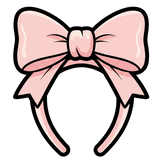
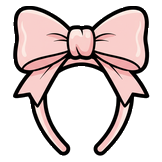
🔧 꾸미기 실시간 반영 버그 수정 + 배경 제거 전폴더 적용
CosmeticPicker subscribe 버그:
- Firebase onValue 가 재발화할 때마다 setDraft(remote) 가 사용자 선택을 되돌리던
  문제 → useRef 플래그로 모달 열릴 때 최초 1회만 draft 시딩, 이후엔 current 만
  미러. 두 번째 저장부터 바뀌지 않던 증상 해결.

scripts/clean-bg.mjs (신규):
- 범용 배경 제거 스크립트. 모든 PNG 폴더(stickers/mascot/landmarks/icons) 대상
- Edge-seed flood fill + kind gating(light/dark 분리) + 16샘플 엣지워킹 + 6패스
  수렴. 본체 검은 외곽선은 건드리지 않고 배경만 제거
- 체커 패턴/얇은 링/트리밍 후 내부잔재 모두 커버
- patterns/ 는 타일 배경이라 제외

26개 파일 재처리 (주요 예: bee-teacher 94444px, stage-5-queen 11426px,
korea 14136px, sticker-cooperative 4002px 등 바닥배경 투명화)

CLAUDE.md 항목 추가:
- Firebase onValue 재발화 → seed-once draft 패턴
- 낙관적 저장 + 토스트 흐름
- 배경 제거 flood-fill 설계 (predicate-only 금지)
- Next.js 외부 이미지 사용법 (flagcdn)

Changed region(s): [[0.0617, 0.0309, 0.9259, 0.9568], [0.0617, 0.1543, 0.1235, 0.2778]]

diff --git a/components/CosmeticPicker.tsx b/components/CosmeticPicker.tsx
@@ -1,6 +1,6 @@
 "use client";
 
-import { useEffect, useMemo, useState } from "react";
+import { useEffect, useMemo, useRef, useState } from "react";
 import { t } from "@/lib/i18n";
 import { subscribeCosmetics, setCosmetics } from "@/lib/stickers";
 import {
@@ -63,12 +63,22 @@ export default function CosmeticPicker({
   const uPets = useMemo(() => new Set<NonNullable<PetId>>(unlockedPets(stage)), [stage]);
   const uTrophies = useMemo(() => new Set<NonNullable<TrophyId>>(unlockedTrophies(stage)), [stage]);
 
-  // Subscribe to cosmetics while open
+  // Subscribe to cosmetics while open.
+  // BUG FIX: Firebase onValue can fire multiple times (cache → server roundtrip
+  // OR our own optimistic write echoing back). If we setDraft() on every fire
+  // we clobber the user's in-flight selections, so subsequent picks revert.
+  // → only seed `draft` from the FIRST fire per modal opening; after that,
+  // only mirror into `current` so the local "last saved" baseline stays fresh.
+  const seededRef = useRef(false);
   useEffect(() => {
     if (!open || !myClientId) return;
+    seededRef.current = false;
     const unsub = subscribeCosmetics(roomCode, myClientId, (c) => {
       setCurrent(c);
-      setDraft(c);
+      if (!seededRef.current) {
+        setDraft(c);
+        seededRef.current = true;
+      }
     });
     return () => { unsub(); };
   }, [open, roomCode, myClientId]);

diff --git a/CLAUDE.md b/CLAUDE.md
@@ -75,3 +75,42 @@
 - `npm run build` 는 타입 체크 + 13개 페이지 prerender 까지 포함. PraiseHive /
   BeeMascot / SetupScreen 수정 후엔 반드시 통과시키고 푸시.
 - 에셋(PNG) 만 변경했어도 type import 가 깨졌을 수 있으니 빌드 생략하지 말 것.
+
+## Firebase 실시간 구독 (subscribe 패턴)
+
+- **Firebase `onValue` 는 한 번에 두 번 이상 발화할 수 있다.** 캐시값 → 서버값
+  왕복, 또는 자기 자신의 낙관적 쓰기가 에코로 되돌아오는 경우가 대표적. 콜백
+  안에서 `setDraft(remote)` 같은 코드를 그대로 쓰면 사용자가 고른 값이 subs
+  재발화 때 원래값으로 덮어써진다.
+- **구독은 "첫 fire 에만 draft 시딩" 패턴을 고수.** 모달/화면이 열릴 때마다
+  `useRef(false)` 플래그를 리셋해 1회 시딩, 이후엔 `current`(읽기 전용 상태)만
+  갱신하고 사용자 편집 상태는 건드리지 말 것. CosmeticPicker 가 이 패턴.
+- **쓰기는 낙관적으로.** 저장 버튼 → `onClose()` 즉시 + `onSaved()` 토스트
+  먼저 → `setCosmetics(...).catch(err => onSaveError(err))` 백그라운드. `await`
+  로 모달을 붙잡아두면 체감 지연이 커지고, Firebase 가 에코 재발화하며 UI 상태
+  가 튈 수 있다.
+- 토스트 컴포넌트는 `components/Toast.tsx` 재사용. tone `success` / `error`.
+
+## 배경 제거 파이프라인 (scripts/clean-bg.mjs)
+
+- **이전 실수:** `isNearBlack(r<40 && g<40 && b<40)` 같은 **predicate-only** 스트립
+  은 이미지 안쪽의 까만 외곽선까지 통째로 날린다 (예: 번데기 몸통 검은 줄무늬).
+- **현재 올바른 방식:** 가장자리에서 **flood-fill seed** 를 잡고, "같은 종류
+  (light / dark) 의 인접 픽셀만 지우기"로 경계를 존중한다. 뿌리부터 닿을 수
+  있는 배경만 지우기 때문에 **내부 본체 검은 선은 보존**된다.
+- **다중 패스.** 체커 패턴처럼 한 겹을 지우면 안쪽 링이 새 가장자리가 되는
+  경우가 있어서 `MAX_PASSES=6` 번까지 수렴할 때까지 반복.
+- **에지 샘플링은 많이.** 한 변에 16 샘플 위치 × 4 방향으로 가장 바깥 불투명
+  픽셀을 seed 로 등록. 본체가 특정 위치에서 edge 에 닿아도 다른 샘플로 우회.
+- **dark seed 는 현재 비활성.** 까만 배경을 flood 로 지우면 본체 외곽선까지
+  따라가는 사고가 잦아서, 특정 파일에 대해서만 별도 스크립트(`strip-bg.mjs`)
+  로 수동 처리.
+- `public/patterns/` 는 스크립트 대상에서 제외 — 타일링 배경이므로 내용 자체
+  가 "배경".
+
+## Next.js 외부 이미지
+
+- 표준 `<img src="...">` 는 도메인 제한 없이 사용 가능. `next/image` 는 도메인
+  허용 목록(`next.config.js → images.remotePatterns`) 필요.
+- `flagcdn.com`, `flagpedia.net` 등은 오픈 라이선스 국기 CDN. srcset `w320`/`w640`
+  세트로 HiDPI 대응.
